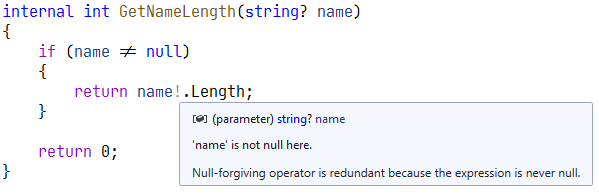
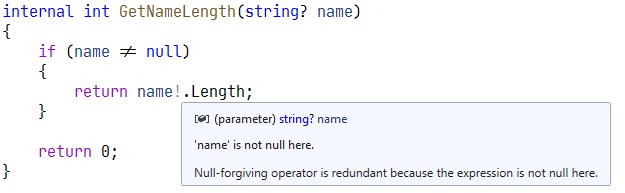
update texts

diff --git a/Sources/ReCommendedExtension/Analyzers/ControlFlow/ControlFlowAnalyzer.cs b/Sources/ReCommendedExtension/Analyzers/ControlFlow/ControlFlowAnalyzer.cs
@@ -236,7 +236,7 @@ namespace ReCommendedExtension.Analyzers.ControlFlow
                 {
                     context.AddHighlighting(
                         new RedundantAssertionStatementSuggestion(
-                            $"Assertion is redundant because the expression is always {(isKnownToBeTrue ? "true" : "false")}.",
+                            $"Assertion is redundant because the expression is {(isKnownToBeTrue ? "true" : "false")} here.",
                             assertionStatement));
                 }
 
@@ -258,7 +258,7 @@ namespace ReCommendedExtension.Analyzers.ControlFlow
                                 {
                                     context.AddHighlighting(
                                         new RedundantAssertionStatementSuggestion(
-                                            "Assertion is redundant because the expression is always true.",
+                                            "Assertion is redundant because the expression is true here.",
                                             assertionStatement));
                                 }
                                 break;
@@ -268,7 +268,7 @@ namespace ReCommendedExtension.Analyzers.ControlFlow
                                 {
                                     context.AddHighlighting(
                                         new RedundantAssertionStatementSuggestion(
-                                            "Assertion is redundant because the expression is always false.",
+                                            "Assertion is redundant because the expression is false here.",
                                             assertionStatement));
                                 }
                                 break;
@@ -286,7 +286,7 @@ namespace ReCommendedExtension.Analyzers.ControlFlow
                                 {
                                     context.AddHighlighting(
                                         new RedundantAssertionStatementSuggestion(
-                                            "Assertion is redundant because the expression is always false.",
+                                            "Assertion is redundant because the expression is false here.",
                                             assertionStatement));
                                 }
                                 break;
@@ -296,7 +296,7 @@ namespace ReCommendedExtension.Analyzers.ControlFlow
                                 {
                                     context.AddHighlighting(
                                         new RedundantAssertionStatementSuggestion(
-                                            "Assertion is redundant because the expression is always true.",
+                                            "Assertion is redundant because the expression is true here.",
                                             assertionStatement));
                                 }
                                 break;
@@ -321,9 +321,7 @@ namespace ReCommendedExtension.Analyzers.ControlFlow
                 if (isKnownToBeNull && IsLiteral(assertionStatement.Expression, CSharpTokenType.NULL_KEYWORD))
                 {
                     context.AddHighlighting(
-                        new RedundantAssertionStatementSuggestion(
-                            "Assertion is redundant because the expression is always null.",
-                            assertionStatement));
+                        new RedundantAssertionStatementSuggestion("Assertion is redundant because the expression is null here.", assertionStatement));
                 }
 
                 // pattern: Assert(x); when x is known to be null or not null
@@ -338,7 +336,7 @@ namespace ReCommendedExtension.Analyzers.ControlFlow
                         {
                             context.AddHighlighting(
                                 new RedundantAssertionStatementSuggestion(
-                                    "Assertion is redundant because the expression is never null.",
+                                    "Assertion is redundant because the expression is not null here.",
                                     assertionStatement));
                         }
                         break;
@@ -348,7 +346,7 @@ namespace ReCommendedExtension.Analyzers.ControlFlow
                         {
                             context.AddHighlighting(
                                 new RedundantAssertionStatementSuggestion(
-                                    "Assertion is redundant because the expression is always null.",
+                                    "Assertion is redundant because the expression is null here.",
                                     assertionStatement));
                         }
                         break;
@@ -369,7 +367,7 @@ namespace ReCommendedExtension.Analyzers.ControlFlow
                         {
                             context.AddHighlighting(
                                 new RedundantInlineAssertionSuggestion(
-                                    "Assertion is redundant because the expression is never null.",
+                                    "Assertion is redundant because the expression is not null here.",
                                     inlineAssertion));
                         }
                         break;
@@ -386,7 +384,7 @@ namespace ReCommendedExtension.Analyzers.ControlFlow
                         {
                             context.AddHighlighting(
                                 new RedundantNullForgivingOperatorSuggestion(
-                                    "Null-forgiving operator is redundant because the expression is never null.",
+                                    "Null-forgiving operator is redundant because the expression is not null here.",
                                     nullForgivingOperation));
                         }
                         break;
